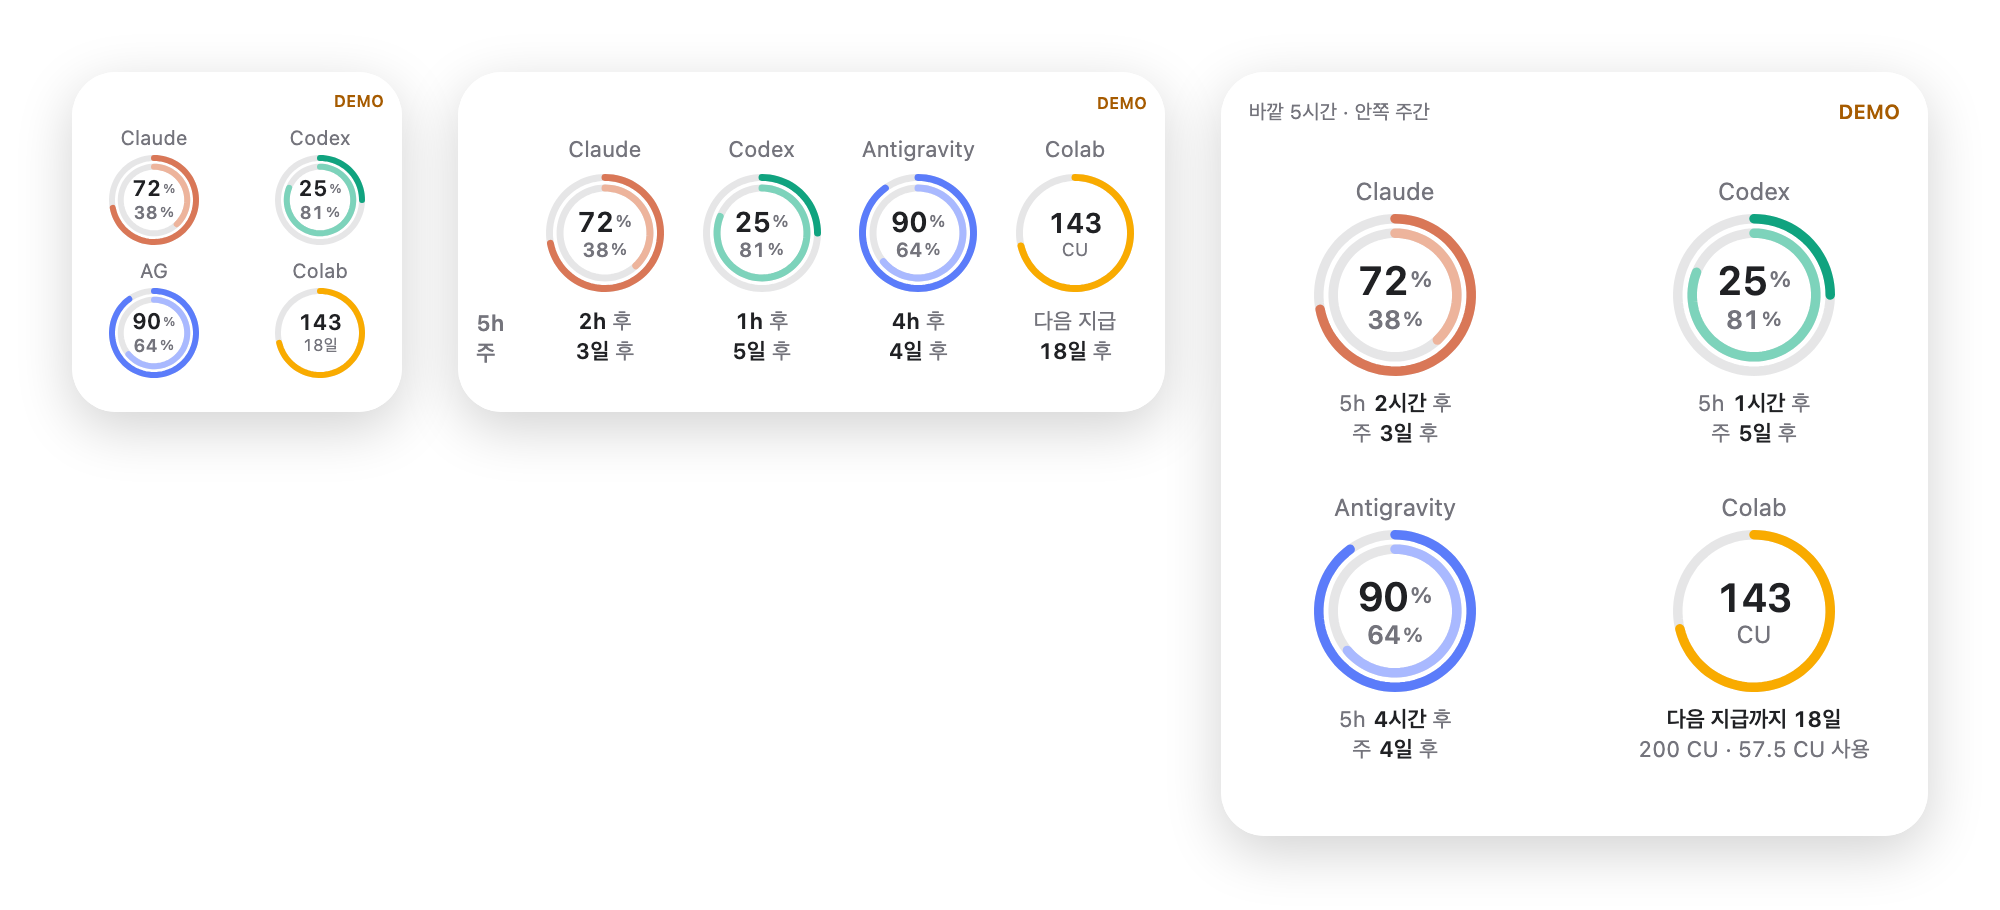
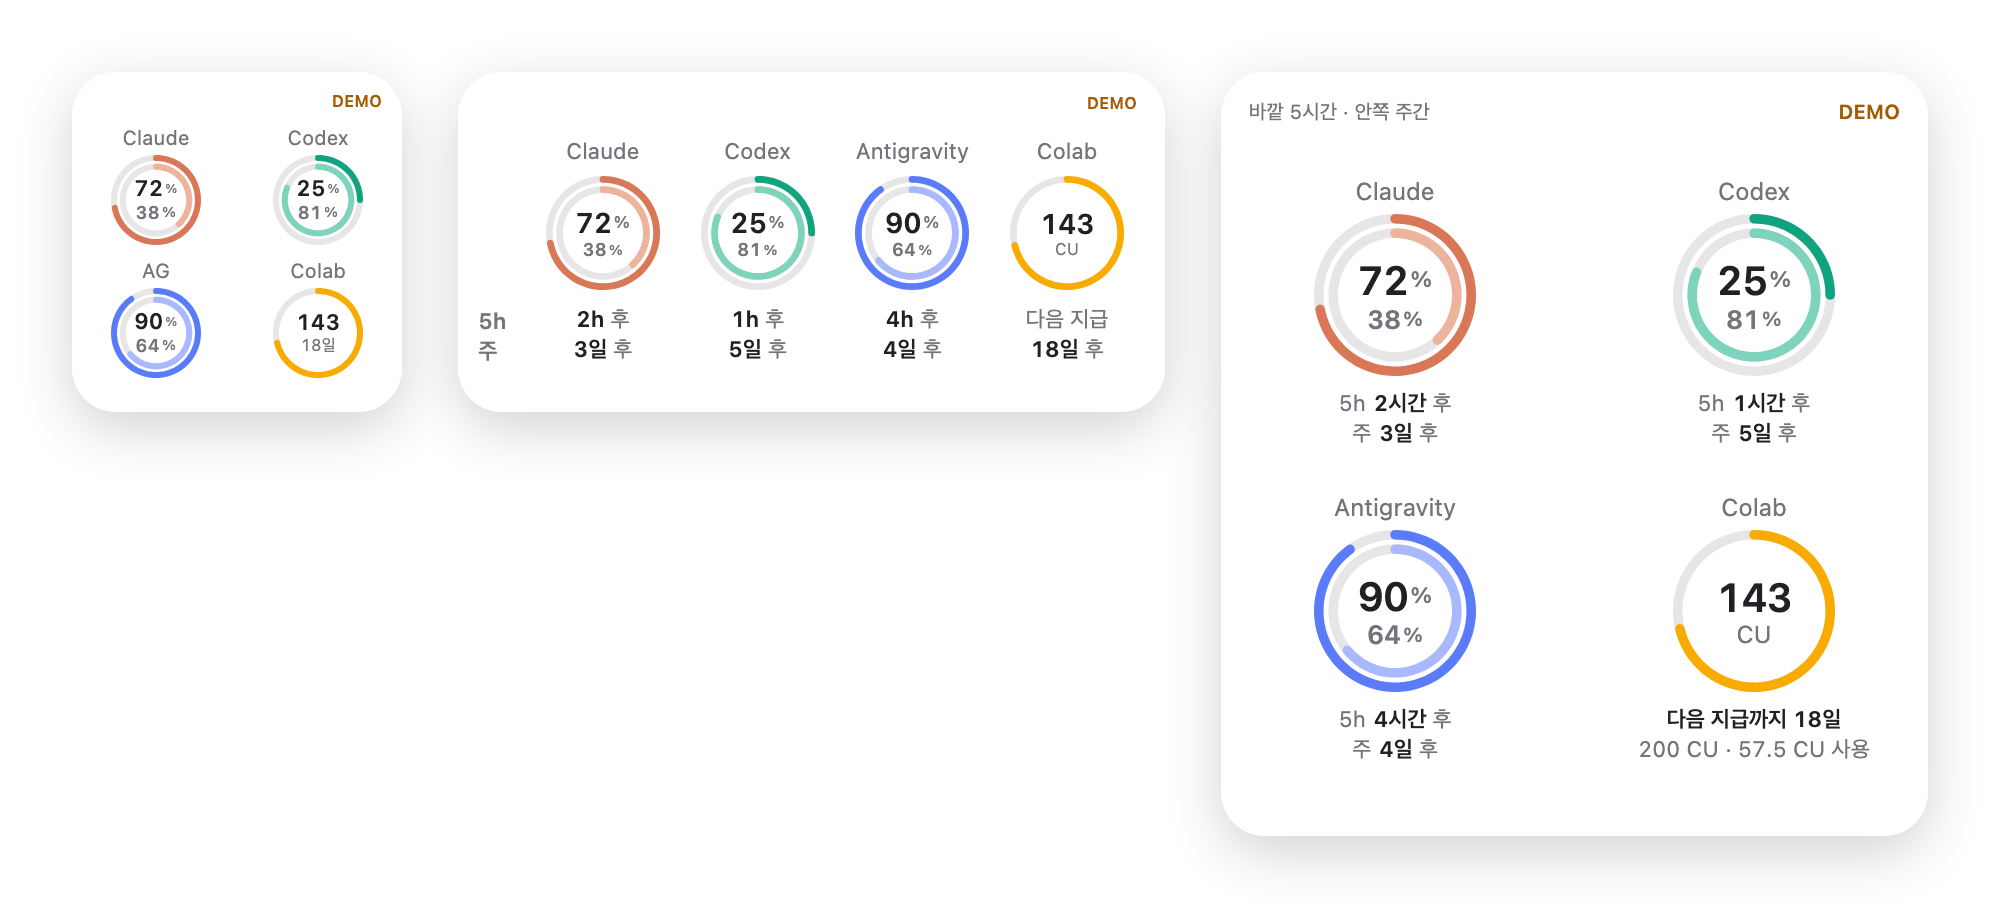
Keep service names on stale data; show the oldest age once; give the medium widget a wider leading inset
Replacing every name with its age left a widget of unlabeled rings when
the Mac slept. The 5h/week labels also sat on the widget's edge on
devices.

diff --git a/Scriptable/AI Usage.js b/Scriptable/AI Usage.js
@@ -663,21 +663,27 @@ function buildRingWidget(snapshot, status, family, now, grantDay) {
   };
   const record = id => snapshot.records.find(r => r.service === id) || { observedAt: null };
   const stale = r => r.observedAt != null && now - r.observedAt > 900;
-  const hint = snapshot.isDemo ? "DEMO" : status === "syncFailed" || status === "cachedNewer" ? t("syncPending") : "";
   const ids = ["claude", "codex", "antigravity", "colab"];
-  const pad = small ? [10, 9] : large ? [14, 14] : [11, 9];
-  w.setPadding(pad[0], pad[1], pad[0], pad[1]);
-  const size = small ? (hint ? 46 : 50) : large ? 82 : (hint ? 60 : 66);
+  // Names always stay; a stale service turns its name orange, and the age of the oldest value
+  // appears once in the corner (when the Mac sleeps, every service goes stale together).
+  const oldest = ids.map(record).filter(stale).map(r => r.observedAt).sort((a, b) => a - b)[0];
+  const ageText = oldest == null ? "" : (() => {
+    const minutes = Math.floor((now - oldest) / 60);
+    const coarse = minutes < 60 ? minutes : minutes < 1440 ? Math.floor(minutes / 60) * 60 : Math.floor(minutes / 1440) * 1440;
+    return t("ago", { d: duration(coarse, true) });
+  })();
+  const hint = [snapshot.isDemo ? "DEMO" : status === "syncFailed" || status === "cachedNewer" ? t("syncPending") : "", ageText]
+    .filter(Boolean).join(" · ");
+  // Medium keeps a wider leading inset: on devices the 5h/week labels sat right on the edge.
+  const pad = small ? [10, 10, 10, 10] : large ? [14, 14, 14, 14] : [11, 14, 11, 10];
+  w.setPadding(pad[0], pad[1], pad[2], pad[3]);
+  const size = small ? (hint ? 46 : 50) : large ? 82 : (hint ? 58 : 64);
   const lineH = 15, font = 11;
 
-  // A stale column swaps its name for how old the value is ("18m ago"), in orange.
   const name = (parent, id, r, fontSize) => {
     const line = row(parent); line.addSpacer();
-    if (stale(r)) {
-      const minutes = Math.floor((now - r.observedAt) / 60);
-      const coarse = minutes < 60 ? minutes : minutes < 1440 ? Math.floor(minutes / 60) * 60 : Math.floor(minutes / 1440) * 1440;
-      text(line, t("ago", { d: duration(coarse, true) }), fontSize, theme.warning, "semibold", 0.6);
-    } else text(line, small ? SHORT_NAMES[id] : SERVICE_NAMES[id], fontSize, theme.secondary, "regular", 0.6);
+    text(line, small ? SHORT_NAMES[id] : SERVICE_NAMES[id], fontSize, stale(r) ? theme.warning : theme.secondary,
+      stale(r) ? "semibold" : "regular", 0.6);
     line.addSpacer();
   };
   // "in 2h" with the time in bold: the localized pattern's text around {d} stays secondary.
@@ -787,13 +793,13 @@ function buildRingWidget(snapshot, status, family, now, grantDay) {
 
   // Medium: the window labels appear once, at the left edge of the two reset lines.
   if (hint) { const h = row(w); h.addSpacer(); text(h, hint, 8, theme.warning, "semibold"); w.addSpacer(2); }
-  const colW = 72, colH = 14 + 5 + size + 7 + lineH * 2;
+  const colW = 70, colH = 14 + 5 + size + 7 + lineH * 2;
   w.addSpacer();
   const main = row(w);
-  const side = box(main, 22, colH); side.addSpacer();
+  const side = box(main, 20, colH); side.addSpacer();
   const hasFiveHour = ["claude", "codex", "antigravity"].some(id => record(id).fiveHour != null);
   for (const label of [hasFiveHour ? t("fiveShort") : "", t("weekShort")]) {
-    const l = row(side); l.size = new Size(22, lineH); text(l, label, font, theme.secondary, "semibold", 0.5); l.addSpacer();
+    const l = row(side); l.size = new Size(20, lineH); text(l, label, font, theme.secondary, "semibold", 0.5); l.addSpacer();
   }
   ids.forEach(id => {
     main.addSpacer();

diff --git a/docs/en/how-it-works.md b/docs/en/how-it-works.md
@@ -95,7 +95,7 @@ The widget asks to redraw after 10 minutes, but iOS decides when it actually doe
 
 | Style | Layout |
 |---|---|
-| Rings (default) | One column per service: outer ring = 5-hour, inner ring = weekly (a lighter tone of the brand color), both remaining percentages inside, reset times below. A stale column shows its age in place of the name |
+| Rings (default) | One column per service: outer ring = 5-hour, inner ring = weekly (a lighter tone of the brand color), both remaining percentages inside, reset times below. A stale service turns its name orange; the oldest age appears once in the corner |
 | Table | Services as rows, 5-hour and weekly columns with numbers and bars, Colab under a divider |
 
 The style comes from a `rings` / `table` token in the Parameter, then `style` in `ai-usage-settings.json`, then the default (rings). The rings are drawn as an image with a neutral gray track; the numbers are ordinary text laid over it, so they follow light and dark mode.

diff --git a/README.ko.md b/README.ko.md
@@ -96,7 +96,7 @@ Claude, Codex, Gemini에는 5시간 한도와 주간 한도가 있고, 시간이
 - 링 아래는 각각 **리셋까지 남은 시간**입니다. 왼쪽 끝의 `5h` / `주`가 모든 열의 두 줄을 한 번에 설명합니다.
 - 5시간 한도가 없는 요금제는 **링 하나**와 숫자 하나만 표시합니다. "—"나 빈 링은 표시하지 않습니다.
 - **Colab**은 시간이 지나면 돌아오는 한도가 아니라 잔액입니다. 링 안에 남은 CU, 아래에 다음 지급까지 남은 날짜를 표시합니다.
-- 15분 이상 지난 값은 서비스 이름 대신 경과 시간("18분 전")을 **주황색**으로 표시합니다.
+- 15분 이상 지난 값은 서비스 이름이 **주황색**이 되고, 가장 오래된 값의 경과 시간("18분 전")을 오른쪽 위에 한 번만 표시합니다.
 
 ## 갤러리
 

diff --git a/README.zh-CN.md b/README.zh-CN.md
@@ -96,7 +96,7 @@ Claude、Codex 和 Gemini 都有 5 小时窗口和每周额度，到点就会重
 - 圆环下方是各自**距离重置的时间**。左侧的 `5h` / `周` 一次性说明所有列的两行含义。
 - 没有 5 小时窗口的套餐只显示**一个圆环**和一个数字，不显示“—”或空圆环。
 - **Colab** 是余额而不是按时间恢复的额度：圆环中是剩余 CU，下方是距下次发放的天数。
-- 超过 15 分钟的旧数据会用**橙色**的经过时间（“18分前”）代替服务名称。
+- 超过 15 分钟的旧数据会把服务名称变成**橙色**，并在右上角显示一次最旧数据的经过时间（“18分前”）。
 
 ## 效果展示
 

diff --git a/README.md b/README.md
@@ -95,7 +95,7 @@ How it works, in one breath: your Mac already has the official CLIs signed in. E
 - Below the ring: **when each one resets**. The `5h` / `wk` labels at the left edge name the two lines once for every column.
 - A plan without a 5-hour window gets a **single ring** and one number — no dash, no empty ring.
 - **Colab** is a balance, not a window: compute units left in the ring, and the days until the next grant below.
-- A value more than 15 minutes old swaps the service name for its age (“18m ago”) in **orange**.
+- A value more than 15 minutes old turns the service name **orange**, and the age of the oldest value appears once in the corner (“18m ago”).
 
 ## Gallery
 
